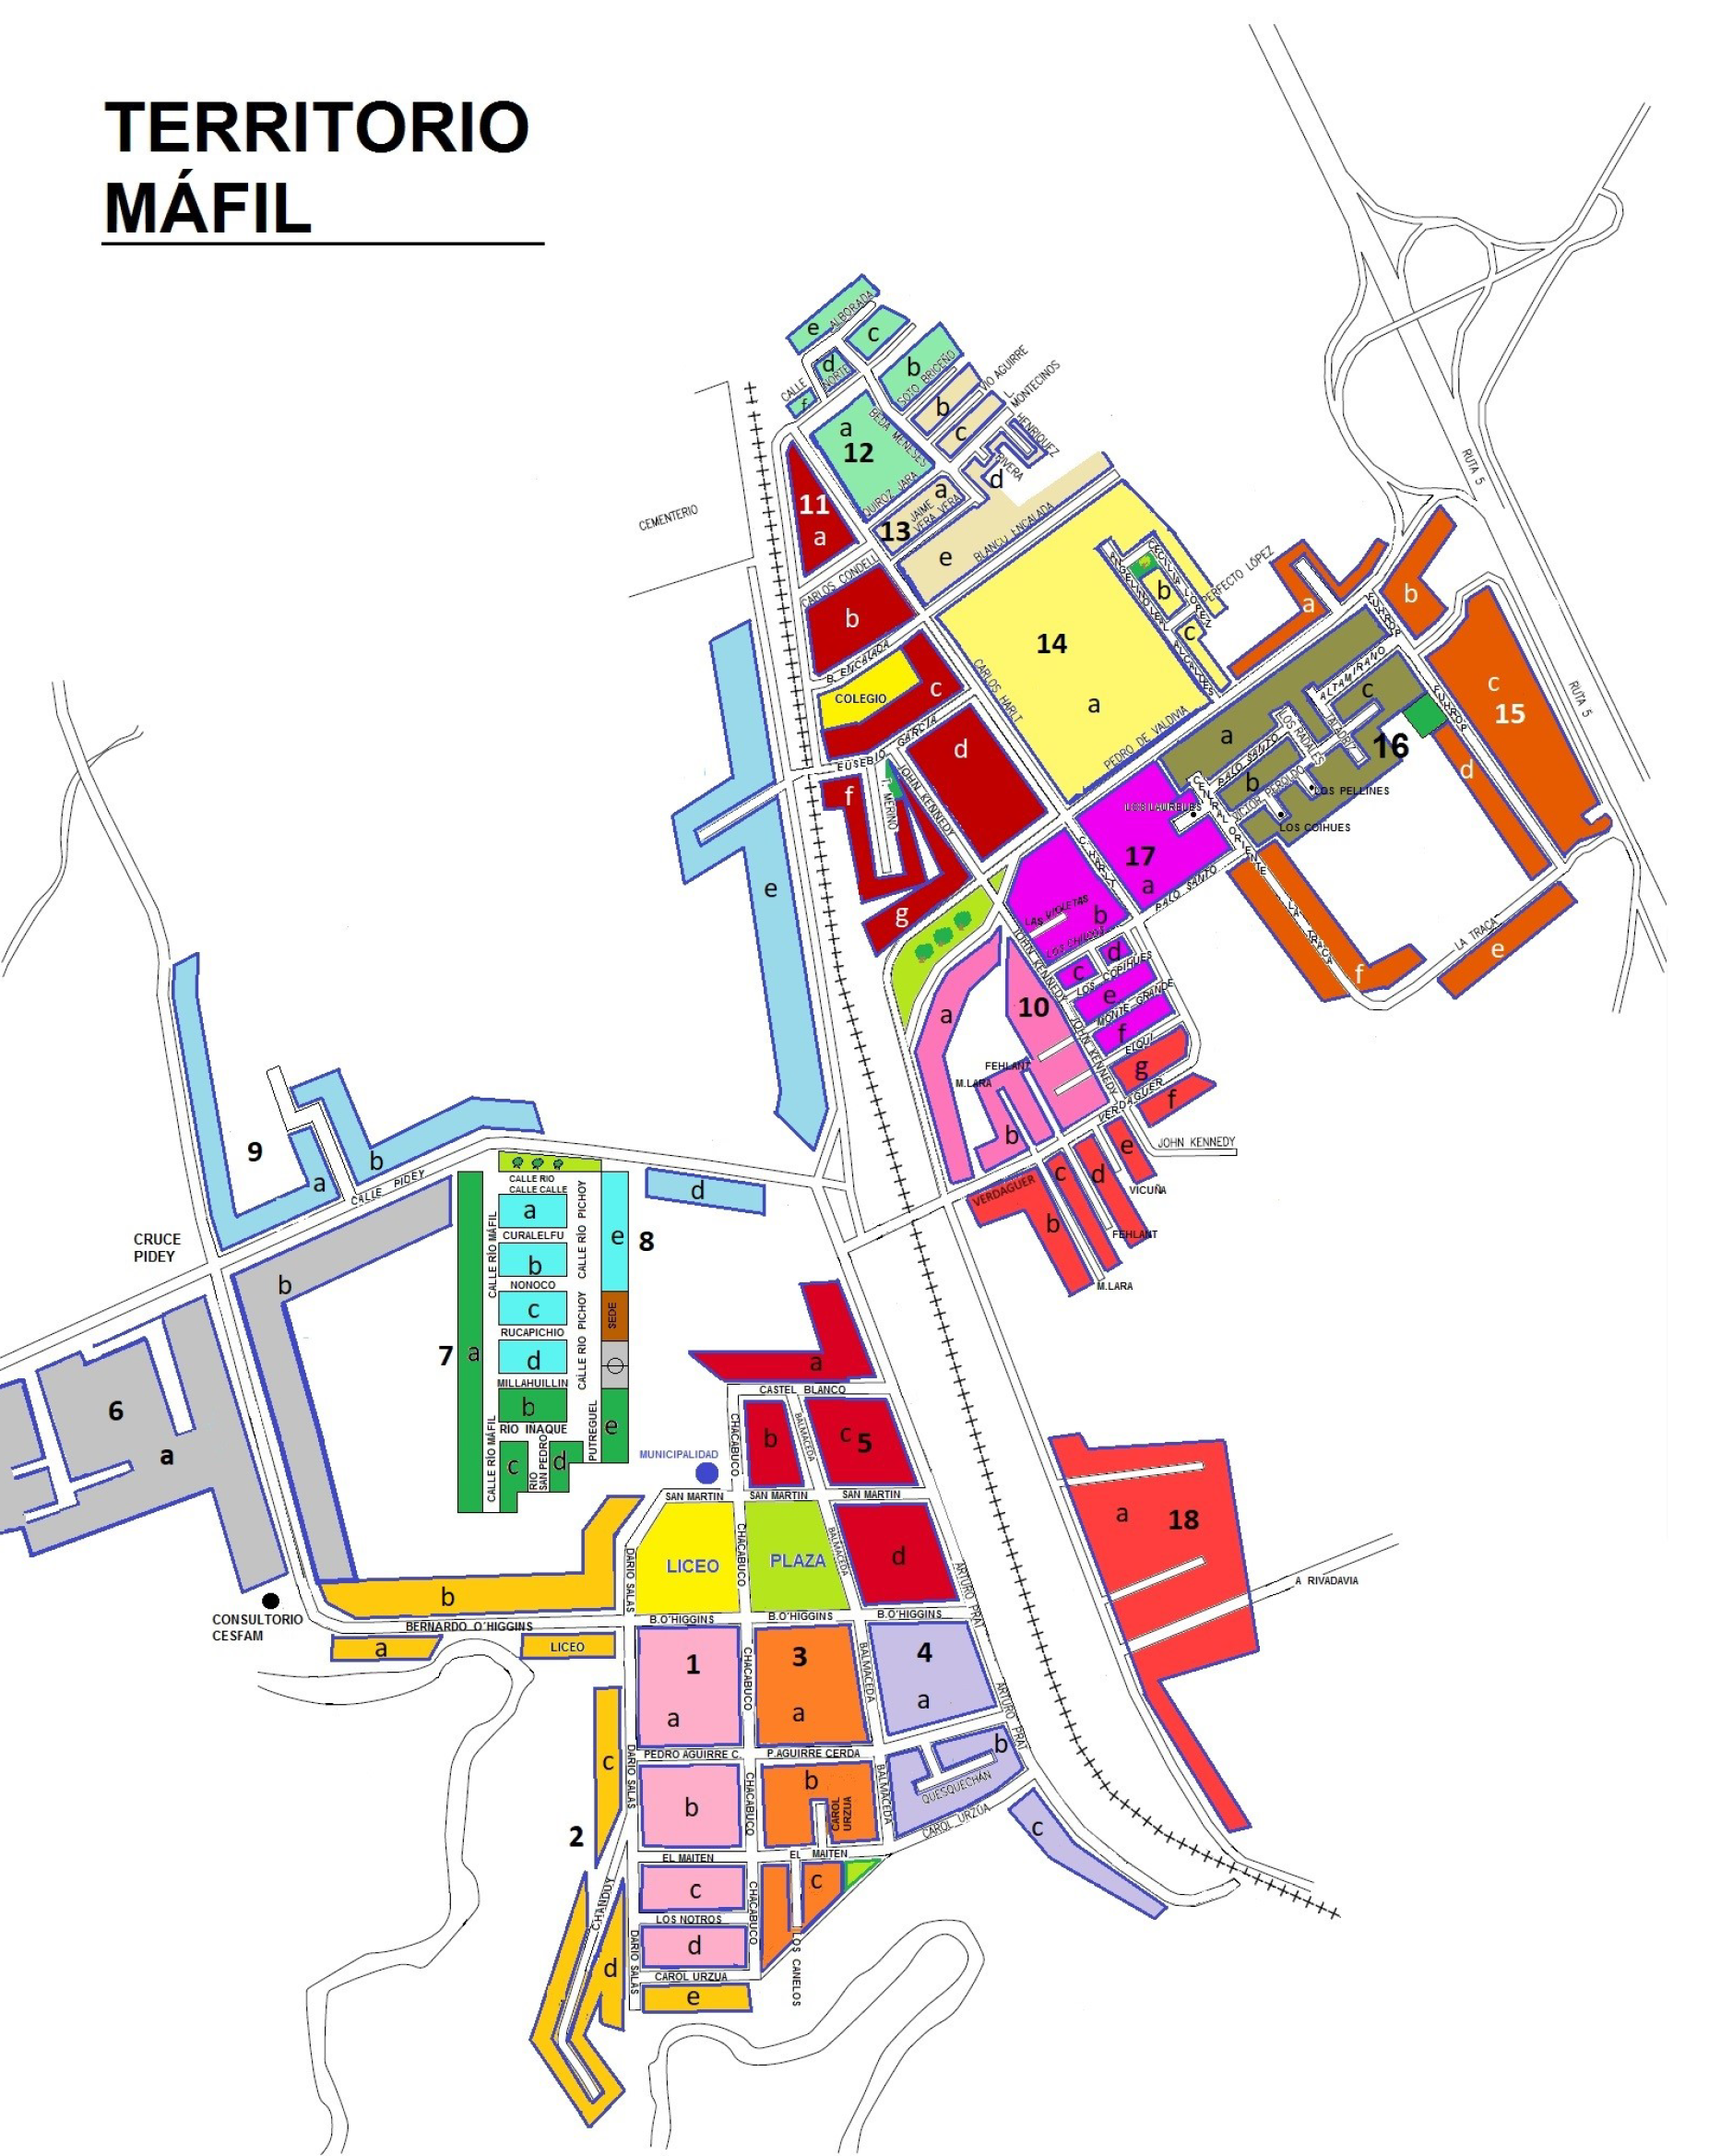
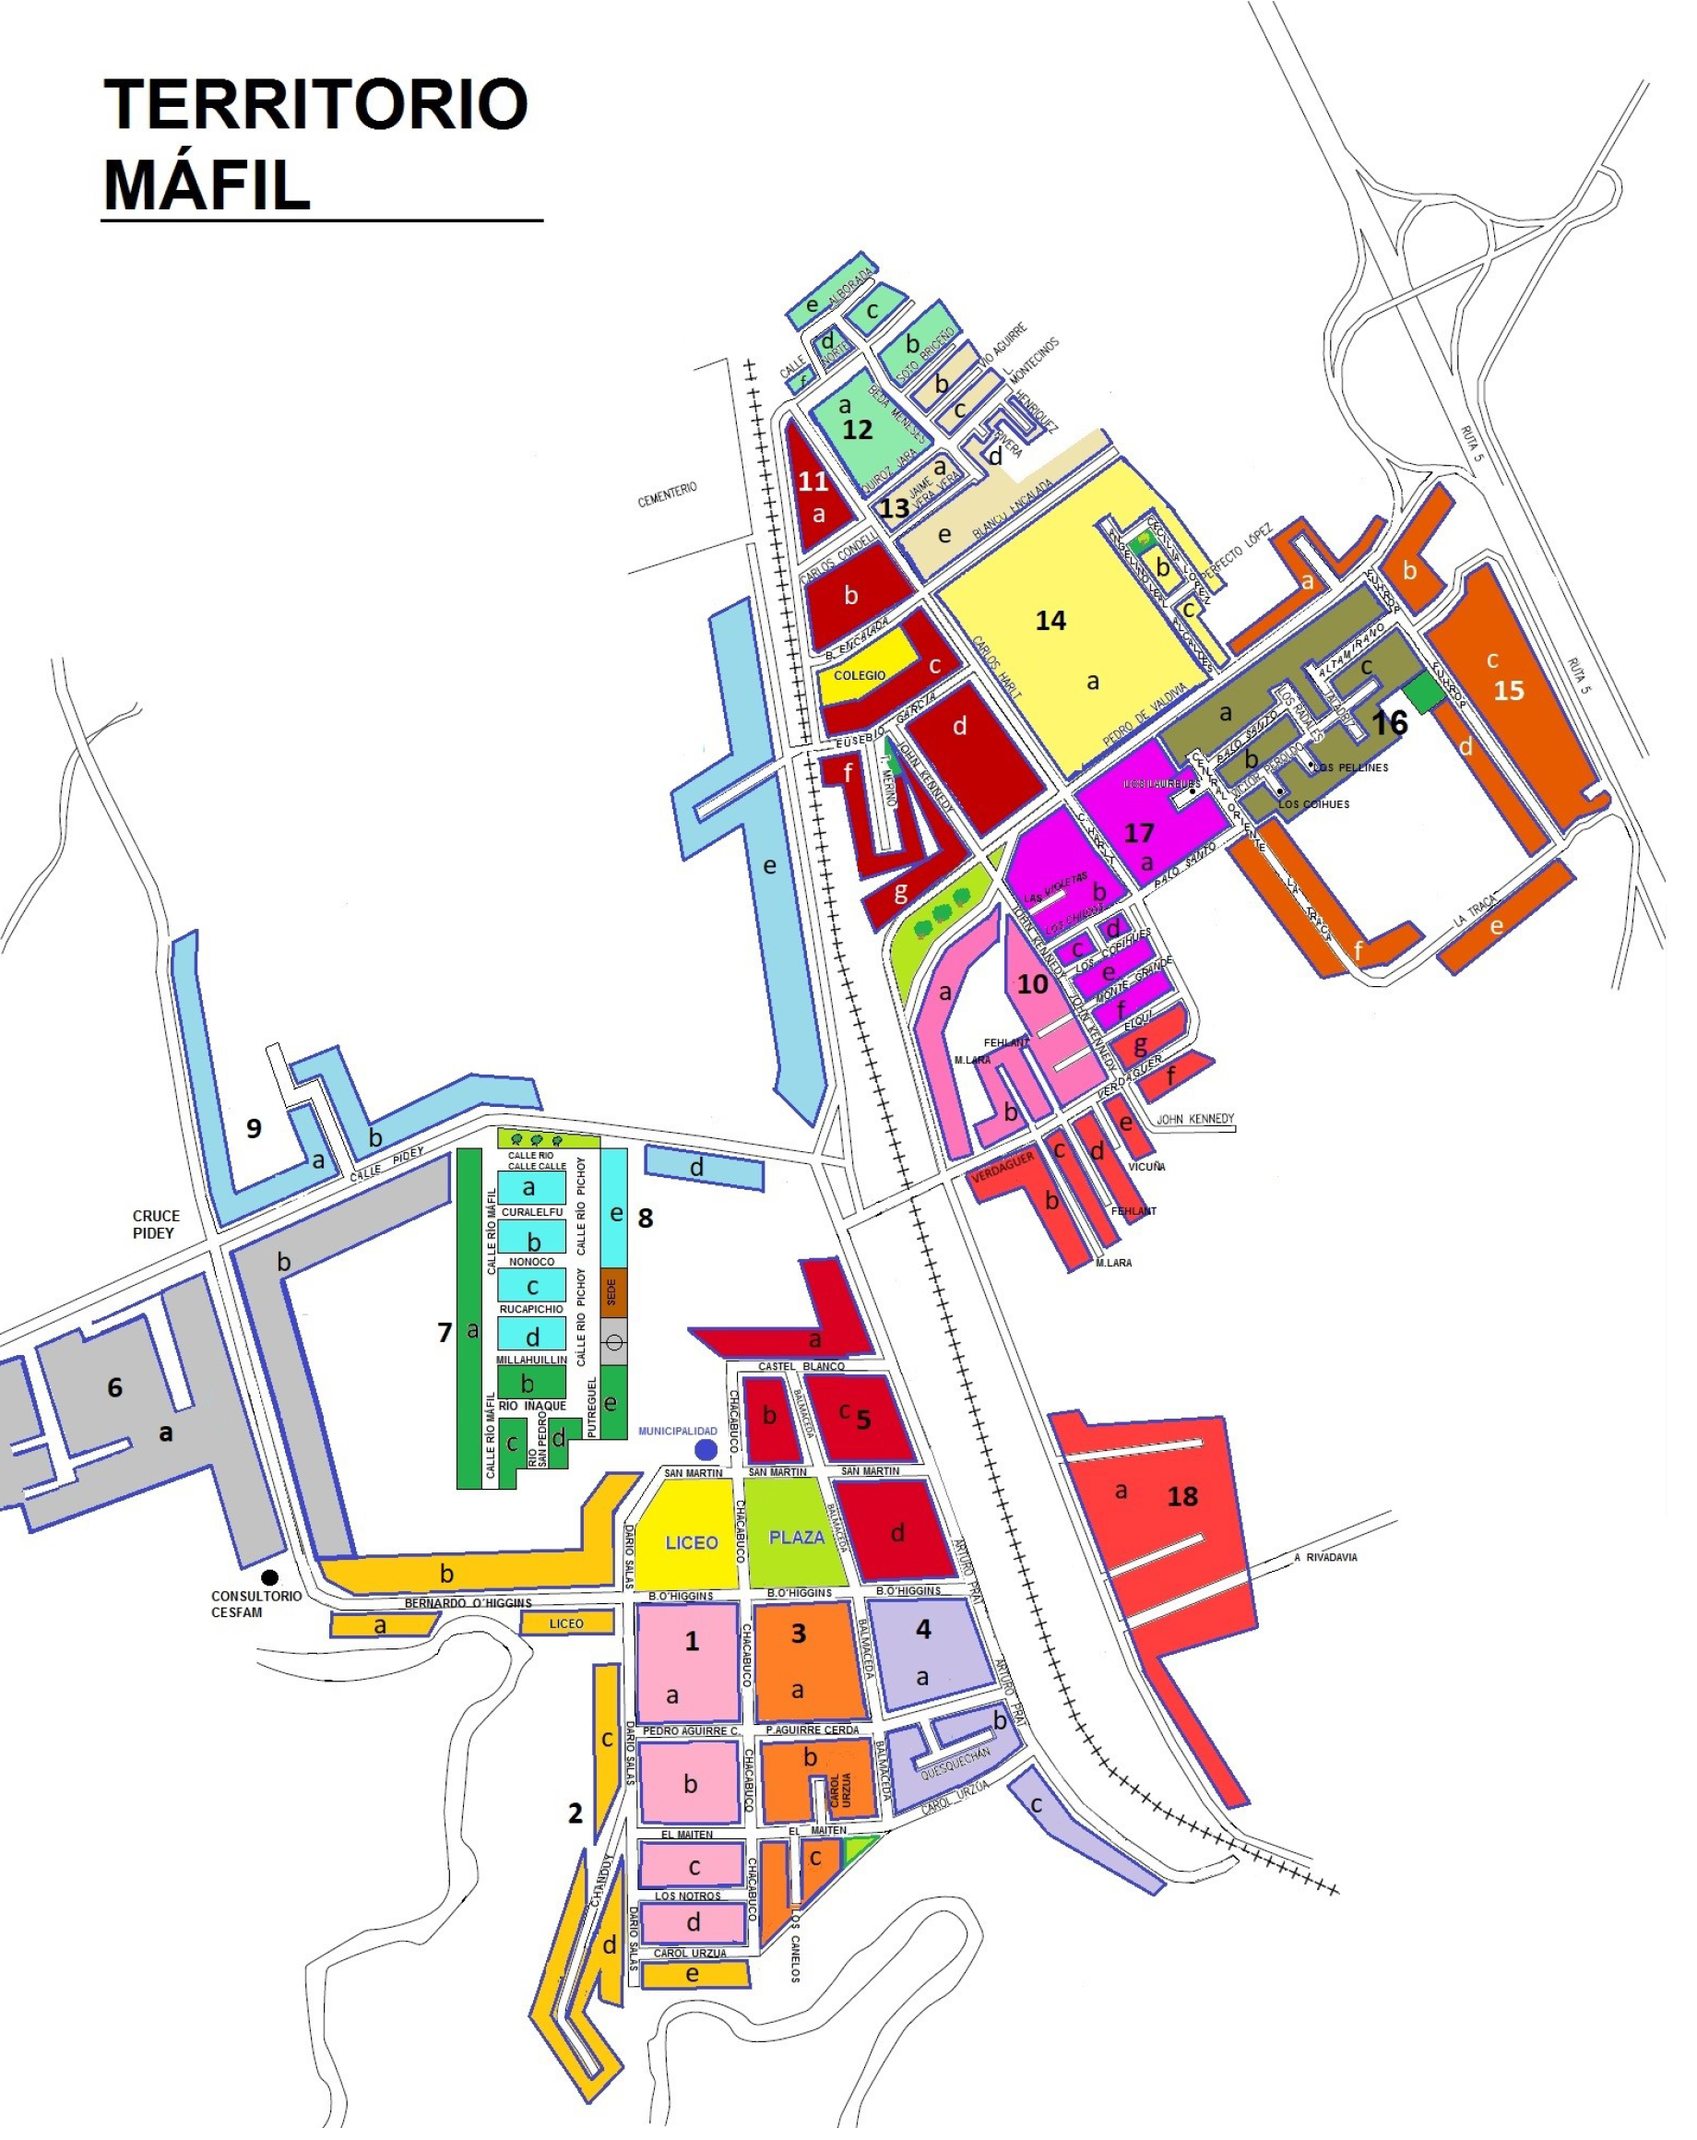
Improved accuracy and tile position. Testing location updates.

diff --git a/script.js b/script.js
@@ -1,31 +1,49 @@
+// Set map area and bounds
+const coord1 = [-39.6711,-72.9415];
+const coord2 = [-39.6517,-72.9614];
+let view = [-39.66123, -72.95155];
+
+// Create map and base tiles
 let map = L.map('map', {
   maxZoom: 18,
   minZoom: 16,
   maxBounds: [
-    [-39.6712,-72.9405],
-    [-39.6523, -72.9625]
+    coord1,
+    coord2
   ],
-}).setView([-39.66123, -72.95155], 16);
+}).setView(view, 16);
 L.tileLayer('https://tile.openstreetmap.org/{z}/{x}/{y}.png', {
-    maxZoom: 18,
+    maxZoom: 19,
     attribution: '&copy; <a href="http://www.openstreetmap.org/copyright">OpenStreetMap</a>'
 }).addTo(map);
 
+// Add custom layer
 let imageUrl = 'mapa 09-22.png',
-    imageBounds = [[-39.6523, -72.9625], [-39.6712,-72.9405]];
+    imageBounds = [coord2, coord1];
 L.imageOverlay(imageUrl, imageBounds).addTo(map);
 
-map.locate({setView: true, watch: true, maxZoom: 17});
+// Enable device GPS
+map.locate({watch: true, enableHighAccuracy: true, maximumAge: 2000});
+
+// Add location marker
+let switcher = 0;
 
 function onLocationFound(e) {
-  let radius = e.accuracy / 2;
-
-  L.marker(e.latlng).addTo(map);
-  L.circle(e.latlng, radius).addTo(map);
+  if (switcher == 0) {
+    L.marker(e.latlng).addTo(map);
+    let radius = e.accuracy / 2;
+    L.circle(e.latlng, radius).addTo(map);
+    switcher++;
+  } else {
+    L.marker.remove();
+    L.circle.remove();
+    switcher = 0;
+  }
 }
 
 map.on('locationfound', onLocationFound);
 
+// On location error
 function onLocationError(e) {
   alert(e.message);
 }
